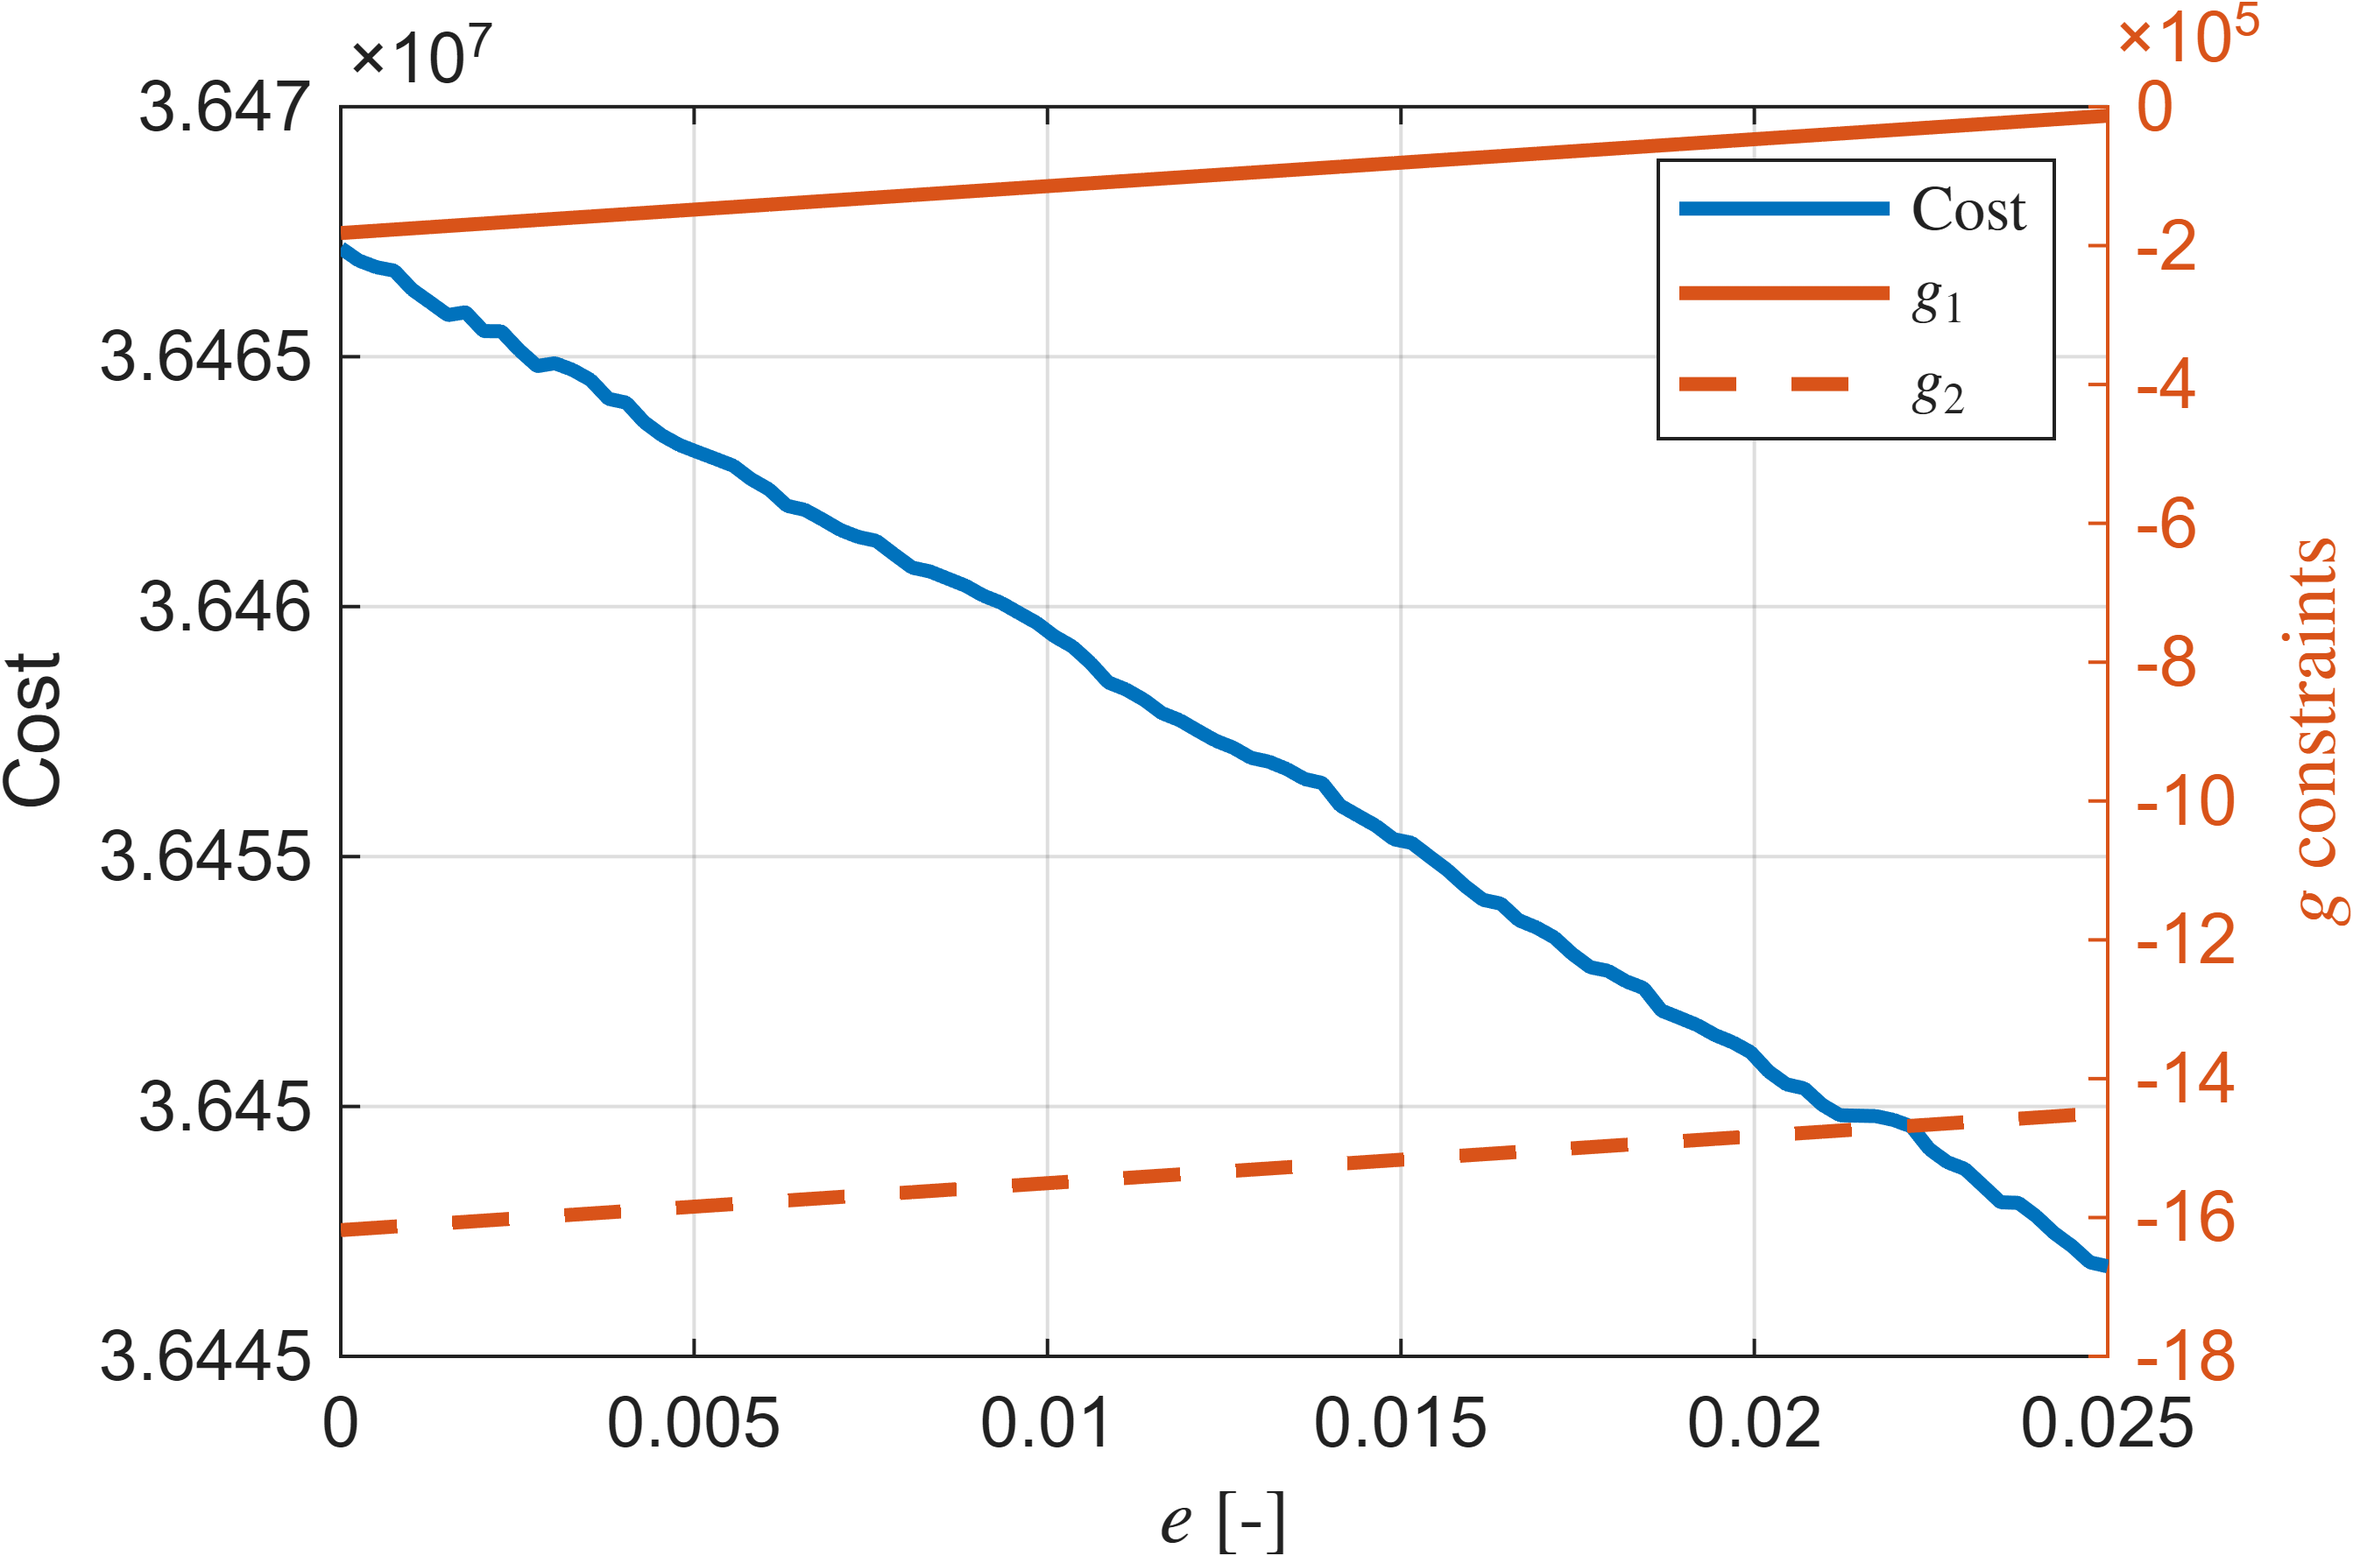
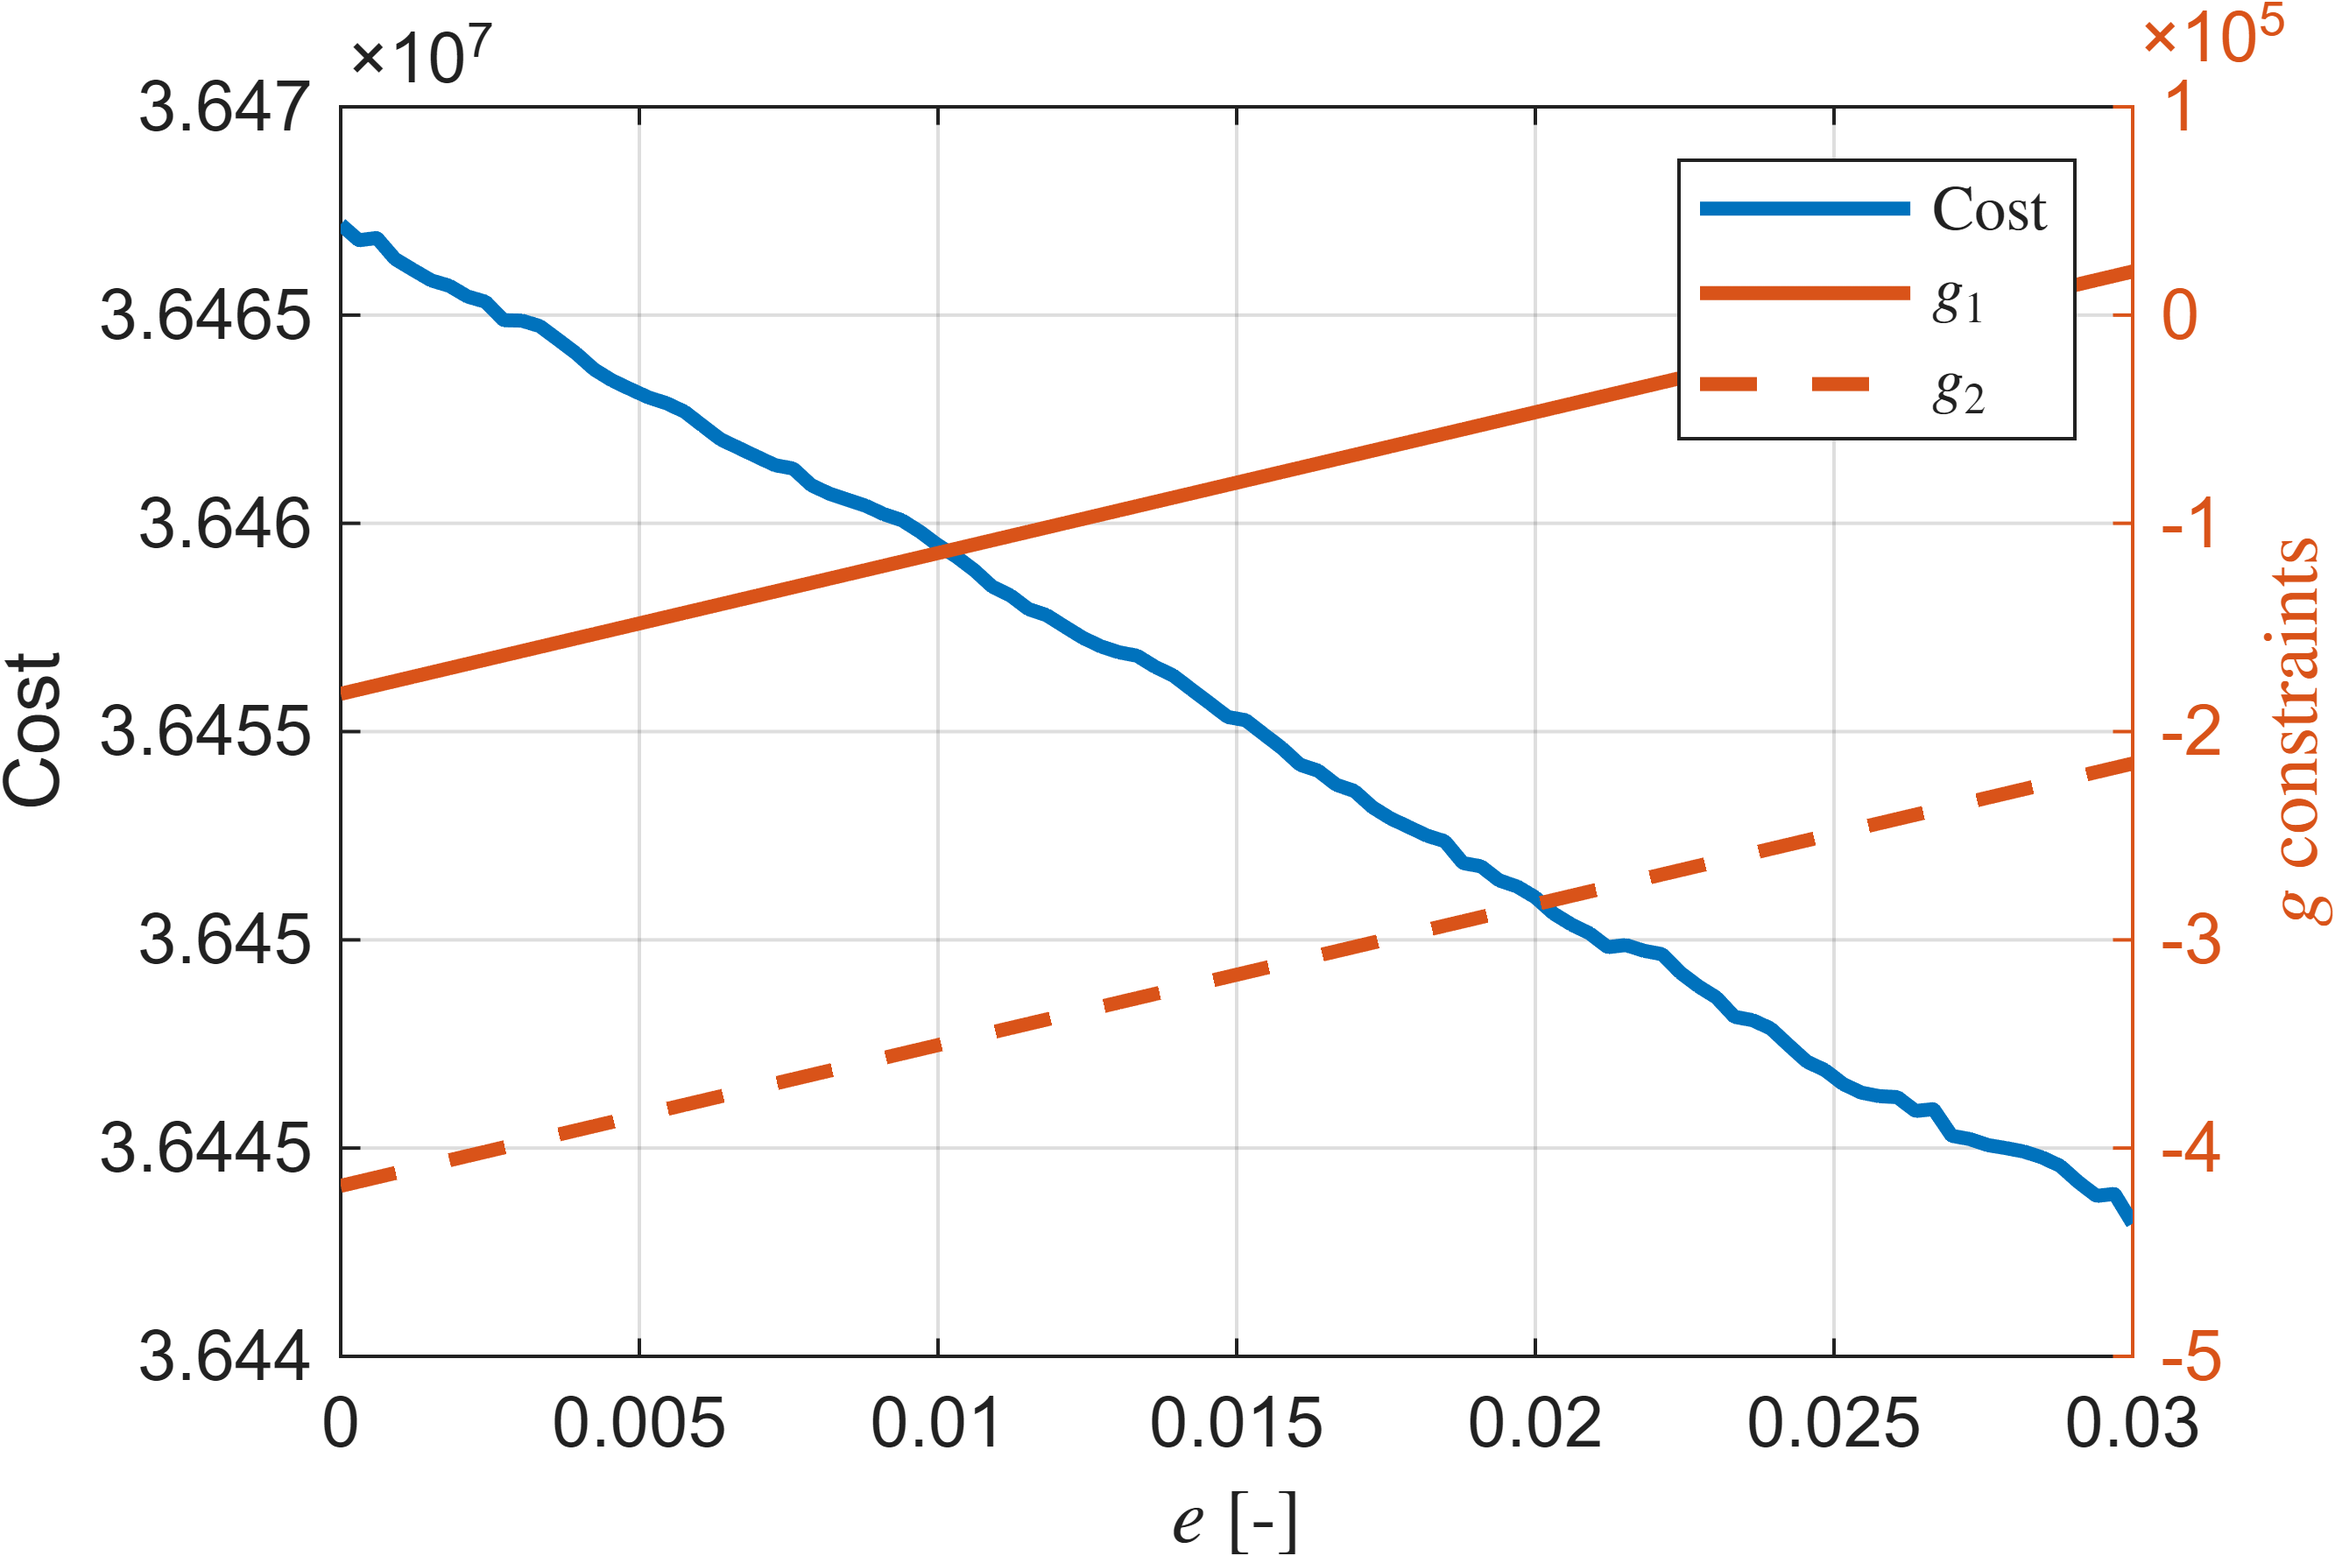
constratints, simplified problem, perf improvements

diff --git a/main.m b/main.m
@@ -14,7 +14,7 @@ fprintf('=============== OBJECTIVE FUNCTION ===============\n')
 
 % semi-major axis, eccentricity, inclination, RAAN, argument of perigee, mean anomaly, true anomaly
 lb = repmat([6578e3, 0, deg2rad(46), 0, 0, 0]', settings.num_sats, 1);
-ub = repmat([7178e3, 0.025, deg2rad(180 - 46), deg2rad(360), deg2rad(360), deg2rad(360)]', settings.num_sats, 1);
+ub = repmat([7178e3, 0.030, deg2rad(180 - 46), deg2rad(360), deg2rad(360), deg2rad(360)]', settings.num_sats, 1);
 
 % Construct the objective function with the given settings
 f = constellation_obj_fun(settings);
@@ -36,7 +36,7 @@ fprintf('Computation time: \t%.2f s\n', dt)
 fprintf('================== CONSTRAINTS ==================\n')
 
 settings.min_altitude = 200e3; % Minimum altitude [m]
-settings.max_altitude = 2000e3; % Maximum altitude [m]
+settings.max_altitude = 800e3; % Maximum altitude [m]
 
 fprintf('Minimum altitude: \t%.2f km\n', settings.min_altitude / 1e3)
 fprintf('Maximum altitude: \t%.2f km\n', settings.max_altitude / 1e3)
@@ -106,6 +106,28 @@ end
 
 fprintf('Boundedness plots saved.\n')
 
+% Plot the constraint surface for semi-major axis and eccentricity
+a_domain = linspace(lb(1), ub(1), 100);
+e_domain = linspace(lb(2), ub(2), 100);
+
+[A, E] = meshgrid(a_domain, e_domain);
+g_values = arrayfun(@(a, e) g1([a; e; y0(3:end)])', A(:), E(:), UniformOutput = false);
+g_values = cell2mat(g_values)';
+g1_values = reshape(g_values(1, :), size(A, 1), size(A, 2));
+g2_values = reshape(g_values(2, :), size(A, 1), size(A, 2));
+
+% Color the 2D area where both constraints are satisfied (g1 <= 0 and g2 <= 0)
+satisfied = ((g1_values <= 0) & (g2_values <= 0)) - 0.5;
+figure;
+contourf(A, E, satisfied, [0 0], LineWidth = 2);
+xlabel('Semi-major axis (m)')
+ylabel('Eccentricity')
+legend('$g = 0$', Interpreter = "latex")
+grid on;
+savefig('feasible_region.png', [3 2])
+
+fprintf('Feasible region plot saved.\n')
+
 %%%%%%%%%%%%%%%%%%%%%%%%%%%%%%%%%%%%%%%%%%%%%%%%%%%%%%%%%%
 % SIMPLIFIED PROBLEM %%%%%%%%%%%%%%%%%%%%%%%%%%%%%%%%%%%%%
 %%%%%%%%%%%%%%%%%%%%%%%%%%%%%%%%%%%%%%%%%%%%%%%%%%%%%%%%%%
@@ -113,7 +135,43 @@ fprintf('Boundedness plots saved.\n')
 % Create a simplified optimization problem, where just the inclination and RAAN are optimized, while the other variables are fixed to their initial values
 fprintf('=============== SIMPLIFIED PROBLEM ===============\n')
 
-f_simplified = @(x) f([y0(1:2); x(1); y0(4); x(2); y0(6)]);
+f_simplified = @(x) f1([y0(1:2); x(1); y0(4); x(2); y0(6)]);
+
+% Create a meshgrid of inclination and RAAN values
+n = 80;
+inc_domain = linspace(lb(3), ub(3), n);
+raan_domain = linspace(lb(4), ub(4), n);
+[INC, RAAN] = meshgrid(inc_domain, raan_domain);
+
+cost_values = zeros(size(INC));
+
+fprintf('Evaluating cost function for the simplified problem...\n')
+
+parfor i = 1:n
+
+    for j = 1:n
+        cost_values(i, j) = f_simplified([INC(i, j); RAAN(i, j)]);
+    end
+
+end
+
+figure;
+surfc(inc_domain, raan_domain, cost_values', 'EdgeColor', 'none')
+xlabel('Inclination (rad)')
+ylabel('RAAN (rad)')
+zlabel('Cost')
+grid on;
+view(130, 45)
+savefig('simplified_cost_surface.png', [3 2])
+
+% Also make an isoline plot
+figure;
+contourf(inc_domain, raan_domain, cost_values', 20, LineWidth = 1)
+xlabel('Inclination (rad)')
+ylabel('RAAN (rad)')
+colorbar
+grid on;
+savefig('simplified_cost_contour.png', [3 2])
 
 % Set back the number of satellites
 settings.num_sats = original_sats;

diff --git a/lib/model/constellation_obj_fun.m b/lib/model/constellation_obj_fun.m
@@ -23,18 +23,11 @@ function f = constellation_obj_fun(settings)
 
             max_distance = max_distance_to_sat(sat_pos_geo, settings.min_elevation);
 
-            indices = rangesearch(settings.points', sat_pos_ecef', max_distance);
+            indices = rangesearch(settings.kdtree, sat_pos_ecef', max_distance);
             indices = cell2mat(indices);
             % convert indices to logical array
             sat_points_covered = false(numel(settings.points), 1);
             sat_points_covered(indices) = true;
-
-            % sat_points_covered = zeros(numel(settings.points), 1);
-
-            % for p = 1:size(settings.points, 2)
-            %     point_ecef = settings.points(:, p);
-            %     sat_points_covered(p) = point_is_visible(sat_pos_ecef, point_ecef, settings.min_elevation);
-            % end
 
             points_covered = sat_points_covered | points_covered;
         end

diff --git a/config.m b/config.m
@@ -78,6 +78,8 @@ function settings = config()
     ]), 1:numel(inside_geo_points), UniformOutput = false);
     settings.points = cell2mat(settings.points);
 
+    settings.kdtree = KDTreeSearcher(settings.points');
+
     %%%%%%%%%%%%%%%%%%%%%%%%%%%%%%%%%%%%%%%%%%%%%%%%%%%%%%%%%%
     % INTEGRATION SETTINGS %%%%%%%%%%%%%%%%%%%%%%%%%%%%%%%%%%%
     %%%%%%%%%%%%%%%%%%%%%%%%%%%%%%%%%%%%%%%%%%%%%%%%%%%%%%%%%%
